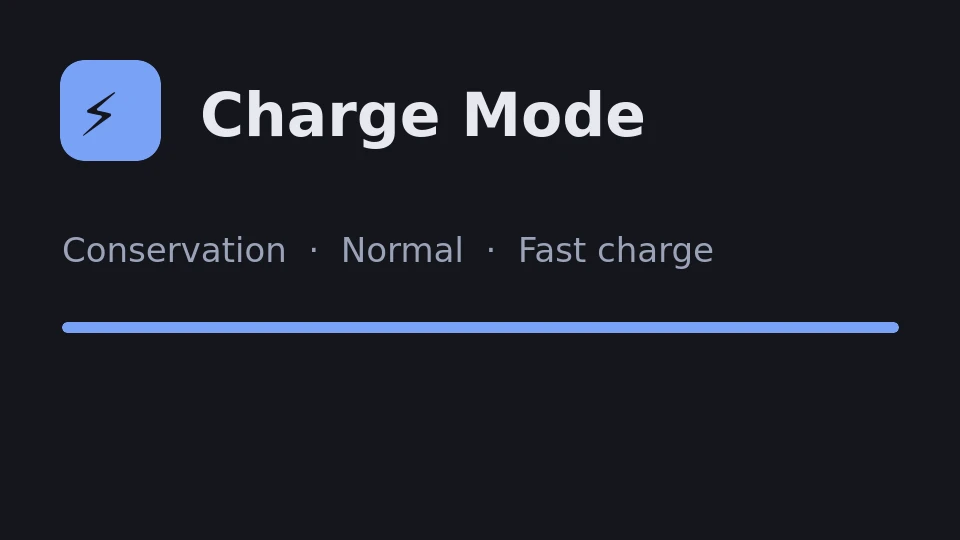
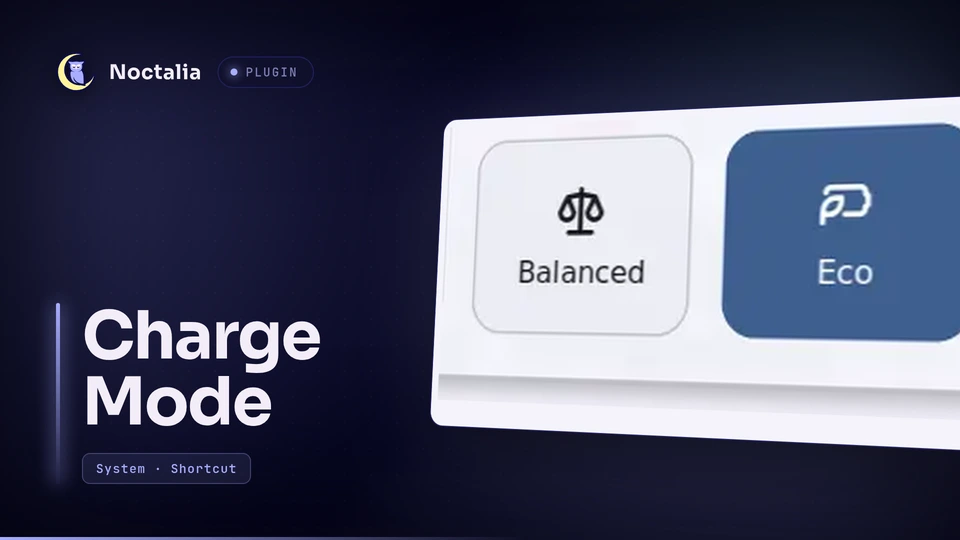
feat(charge-mode): 1.0.0 with screenshot and short tile labels
Document that charge_types replaces the deprecated conservation_mode
attribute and pin the kernel requirement (6.19+ for Fast, 6.17+ for
charge_types). The 2-column grid truncates long labels, so the states are
Eco/Normal/Fast. Image and thumbnail show only the tile, no personal data.

diff --git a/charge-mode/README.md b/charge-mode/README.md
@@ -8,6 +8,12 @@ The kernel exposes these as one mutually exclusive charge type, so the tile cycl
 they are independent switches. It covers Lenovo Legion and IdeaPad laptops, and any other laptop whose `ideapad-laptop`
 or vendor driver publishes `charge_types`.
 
+It replaces the older `conservation_mode` sysfs attribute most tutorials and tools still write to: the kernel marks
+that attribute deprecated (writing it logs `conservation_mode attribute has been deprecated, see charge_types`) and
+`charge_types` covers conservation *and* fast charge through one interface.
+
+![The charge tile (Eco) next to another Control Center shortcut](docs/control-center.webp)
+
 ## Plugin
 
 | Field | Value |
@@ -17,8 +23,9 @@ or vendor driver publishes `charge_types`.
 
 ## Requirements
 
-- Kernel with the `charge_types` power-supply attribute (mainline 6.15+). Missing attribute: the tile stays disabled
-  and shows `N/A`.
+- Linux kernel **6.19 or newer** for the three states: `charge_types` exists since 6.17, but the `Fast` value (rapid
+  charge) was only added to `ideapad-laptop` in 6.19. Kernels before 6.17 expose only the deprecated
+  `conservation_mode` attribute, so the tile stays disabled and shows `N/A`.
 - The `pkexec`, `sudo`, `sh`, `chown` and `udevadm` commands for the one-time setup.
 
 ## Usage
@@ -28,9 +35,9 @@ the label and icon show the type the firmware reports after the write.
 
 | Charge type | Label | Icon |
 | --- | --- | --- |
-| `Long_Life` | Conservation (caps charging below 100%) | `battery-eco` |
+| `Long_Life` | Eco (caps charging below 100%) | `battery-eco` |
 | `Standard` | Normal | `battery-charging` |
-| `Fast` | Fast charge (rapid charge) | `bolt` |
+| `Fast` | Fast | `bolt` |
 
 Conservation and fast charge are mutually exclusive in the firmware: enabling one switches the other off. The kernel
 sequences those writes, so cycling the tile is always safe.
